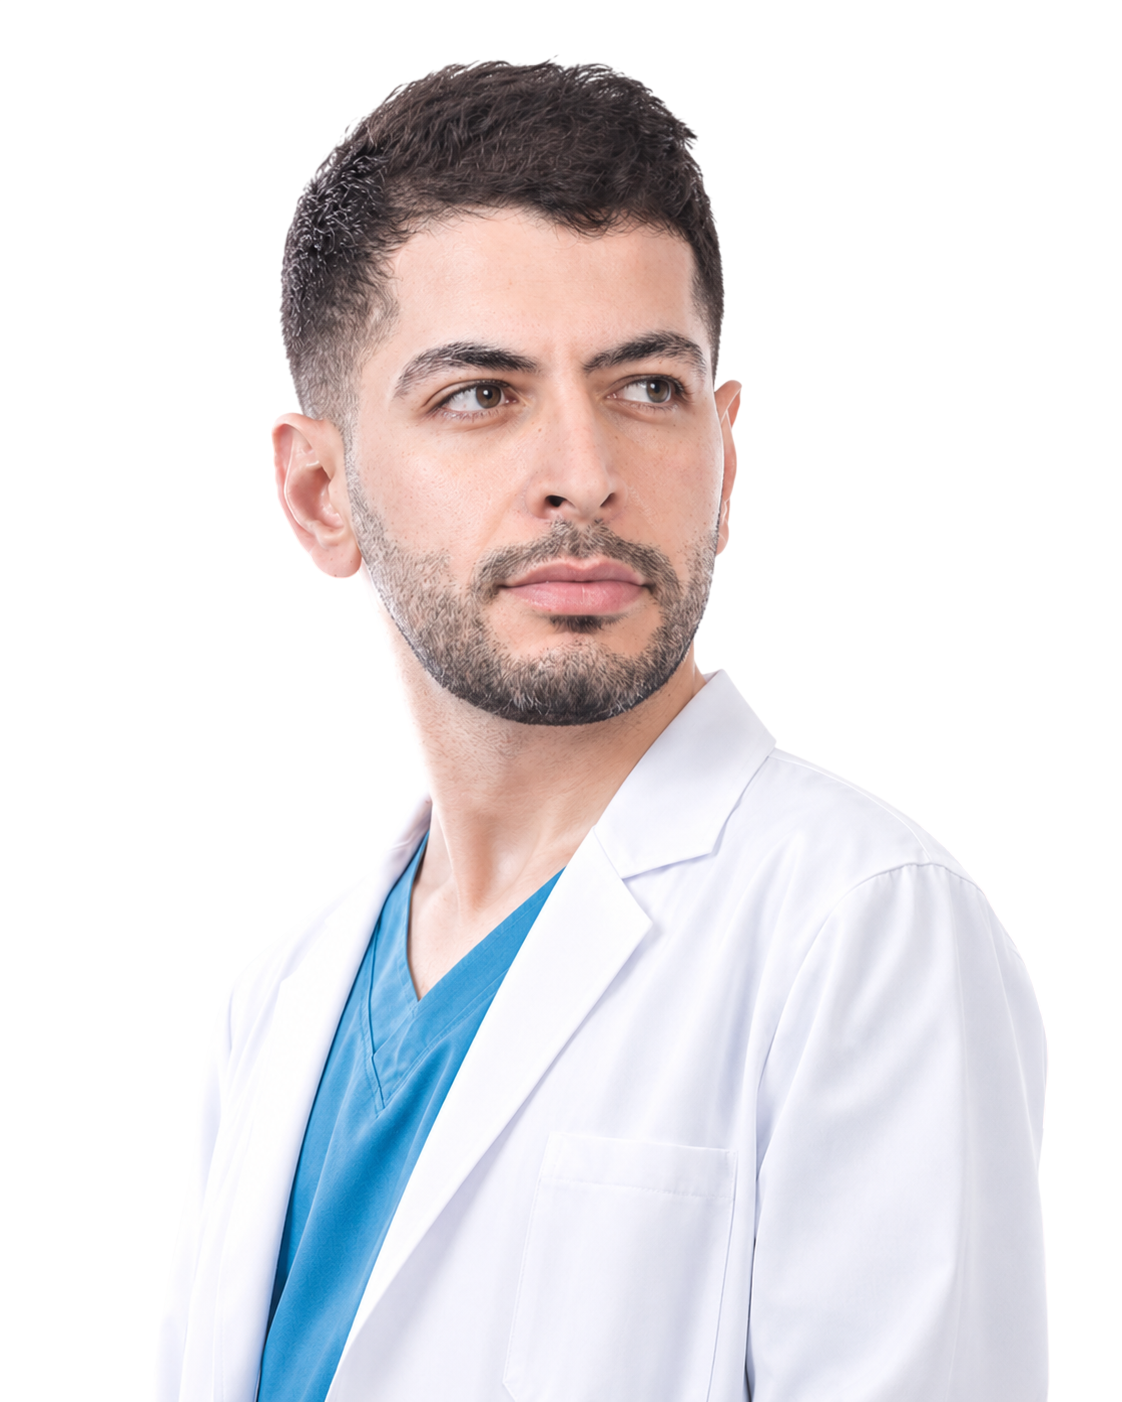
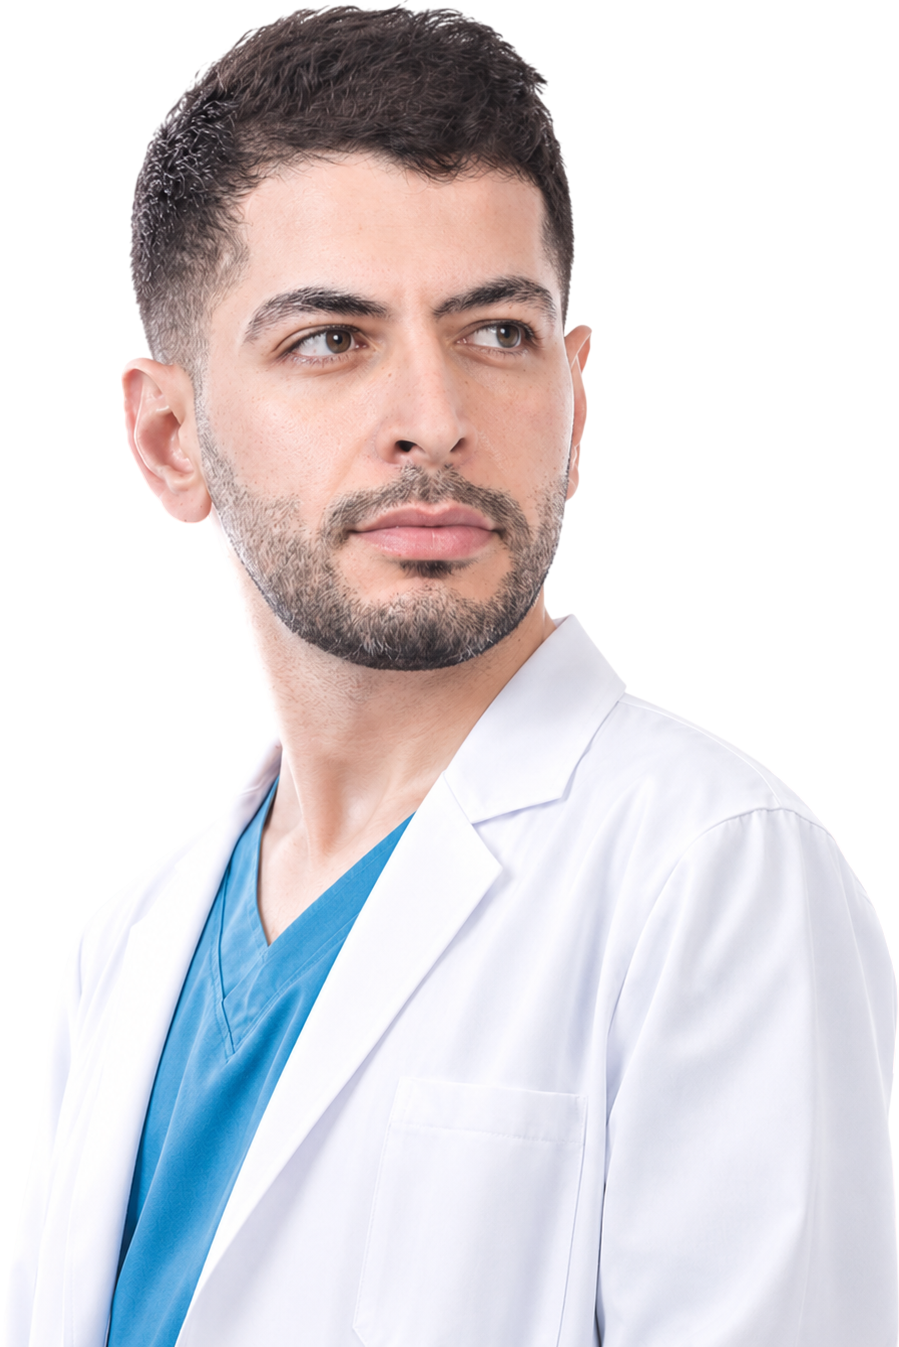
hero section styling

diff --git a/src/components/HomePage.tsx b/src/components/HomePage.tsx
@@ -15,21 +15,29 @@ export default function HomePage() {
   return (
     <ScreenLayout>
       <section id="home" className="h-screen">
+        <div className="absolute top-1/6 right-0 h-20 w-1/6 bg-primary/60 rounded-l-full"></div>
+        <div className="absolute top-1/4 translate-y-1/4 right-0 h-20 w-1/4 bg-primary/30 rounded-l-full"></div>
         <div className="relative w-full">
-          <h1 className={"text-8xl font-bold text-primary absolute top-20 left-[3%] " + (isAR ? "right-[5%] left-px" : "")}>
-            {t("firstname")}
-          </h1>
-          <h1 className={"text-8xl font-bold text-primary absolute top-60 left-[50%] " + (isAR ? "right-[50%] left-px" : "")}>
-            {t("lastname")}
-          </h1>
-          <div className={"absolute max-w-md left-[24%] -top-6 " + (isAR ? "right-[24%] left-px" : "")}>
-            <Image
-              className="h-125 w-auto"
-              src="/images/person-side.png"
-              alt={`${t("name")}'s picture`}
-              width={500}
-              height={600}
-            />
+          <div className={"flex flex-row justify-center"}>
+            <h1 className={"font-black text-primary mt-[clamp(1.5rem,5.5vw,5rem)] text-[clamp(1.5rem,5.5vw,4.8rem)]"}>
+              {t("firstname")}
+            </h1>
+            <div className="relative w-[clamp(10rem,30vw,100%)]">
+              <div className="absolute -left-1/3 bottom-0 h-1/4 w-full bg-primary/30 rounded-full -z-10"></div>
+              <div className="absolute -right-1/2 sm:-bottom-12 -bottom-8 h-1/4 w-[120%] bg-primary/50 rounded-full -z-10"></div>
+              {/* <div className="absolute -right-1/2 sm:-top-12 -left-8 h-[calc(50%+50px)] w-full bg-primary/50 rounded-full -z-10"></div> */}
+
+              <Image
+                className="shadow-[0_15px_20px_-28px_black] h-auto w-[clamp(10rem,30vw,100%)] max-h-125 rounded-br-[clamp(3rem,8vw,9rem)] self-start object-contain z-10"
+                src="/images/person-side.png"
+                alt={`${t("name")}'s picture`}
+                width={500}
+                height={600}
+              />
+            </div>
+            <h1 className={"font-black whitespace-nowrap text-primary self-end ms-[clamp(0rem,5vw,2rem)] mb-[clamp(1.5rem,5.5vw,5rem)] text-[clamp(2rem,5.5vw,4.8rem)]"}>
+              {t("lastname")}
+            </h1>
           </div>
         </div>
       </section>

diff --git a/src/components/ScreenLayout.tsx b/src/components/ScreenLayout.tsx
@@ -13,7 +13,7 @@ export default function ScreenLayout({
         <div className="min-h-screen flex flex-col">
             <Navbar />
 
-            <main className="mx-auto w-full px-6 py-10">
+            <main className="mx-auto w-full max-w-6xl px-6 py-10">
                 {/* max width: max-w-6xl */}
                 {children}
             </main>

diff --git a/src/app/globals.css b/src/app/globals.css
@@ -36,7 +36,7 @@ html[lang="ar"] body {
 
 nav {
   @apply relative w-full max-w-2xl bg-primary/90 px-2 py-2 sm:mt-6 mt-4
-    border-2 border-s-0 border-primary
+    border-2 border-e-0 border-primary
     rounded-s-full backdrop-blur-lg
     shadow-lg shadow-primary/20 ms-auto;
 }
